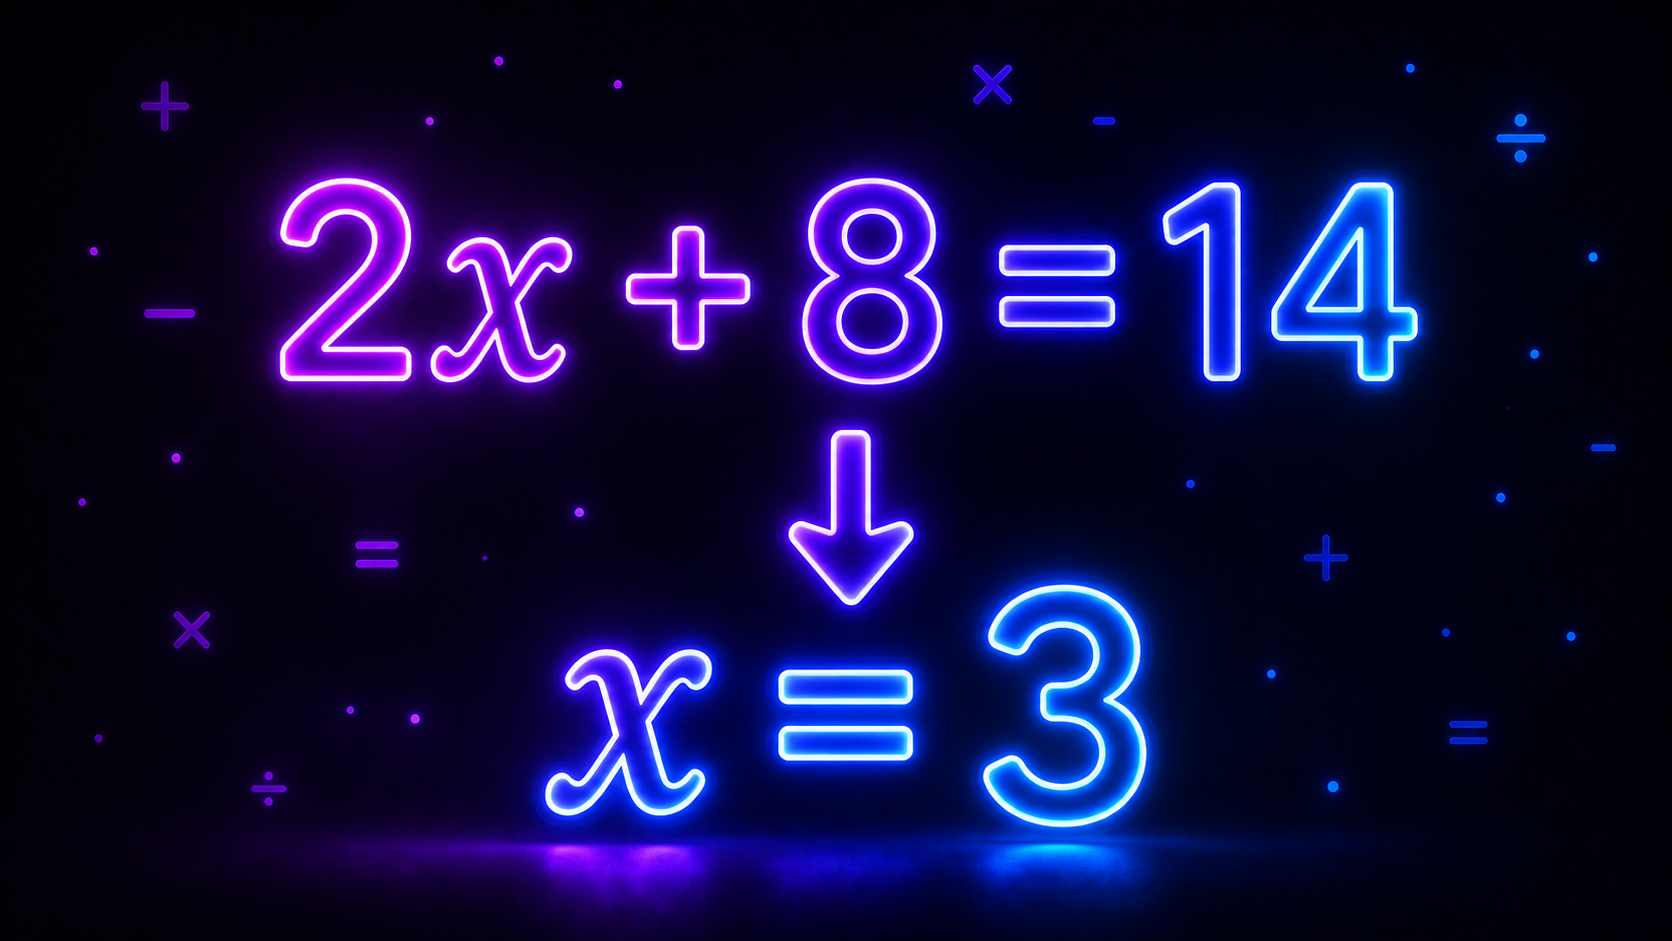
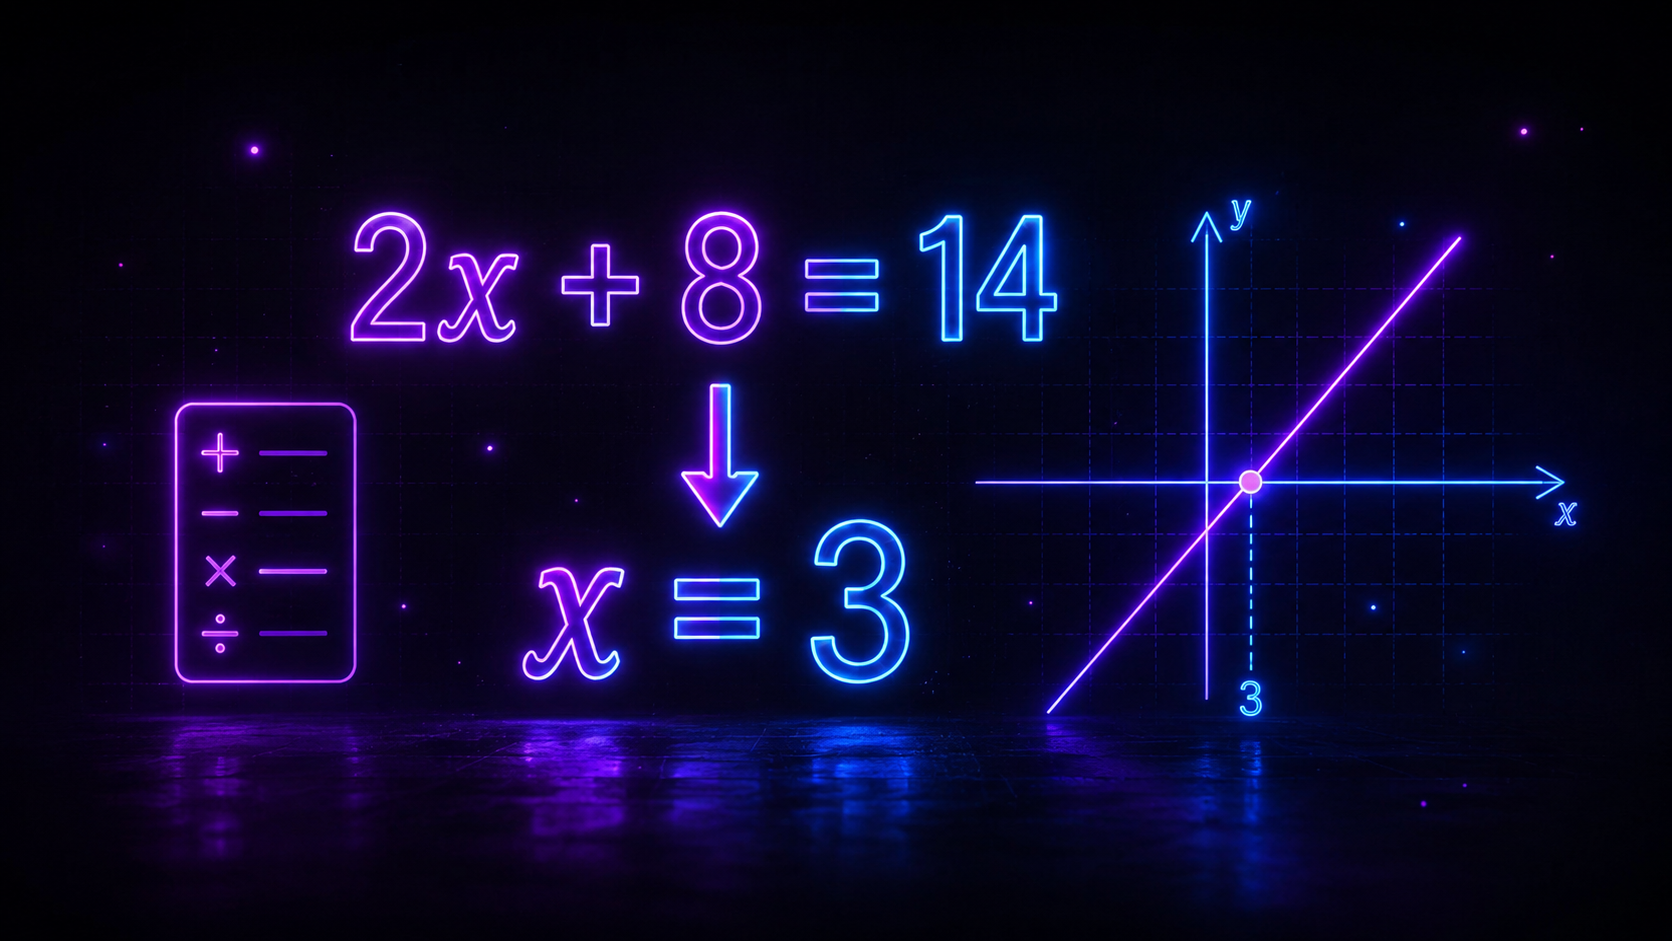
feedback finalizing

diff --git a/javaScript/feedback.js b/javaScript/feedback.js
@@ -3,8 +3,8 @@
    ========================================================================== */
 
 (function () {
-  const MAX_CHAR_LENGTH = 1000;
-  const API_ENDPOINT = "/api/feedback";
+  const MAX_CHAR_LENGTH = 500;
+  const API_ENDPOINT = "https://globomath-feedback-worker.schuhleonard.workers.dev";
 
   const modalHTML = `
     <div id="feedbackModal" class="modal" role="dialog" aria-modal="true" aria-labelledby="feedbackTitle" style="display: none;">
